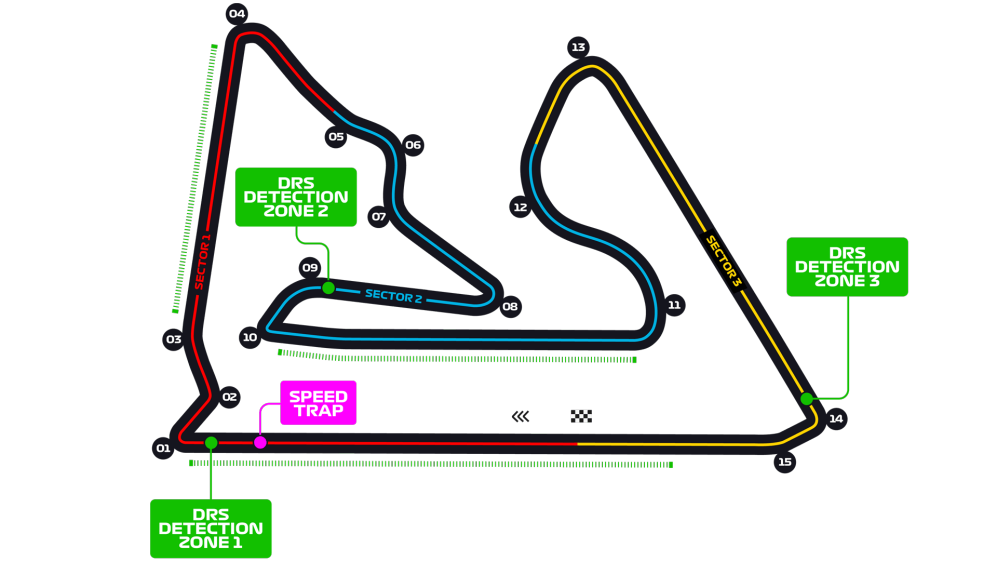
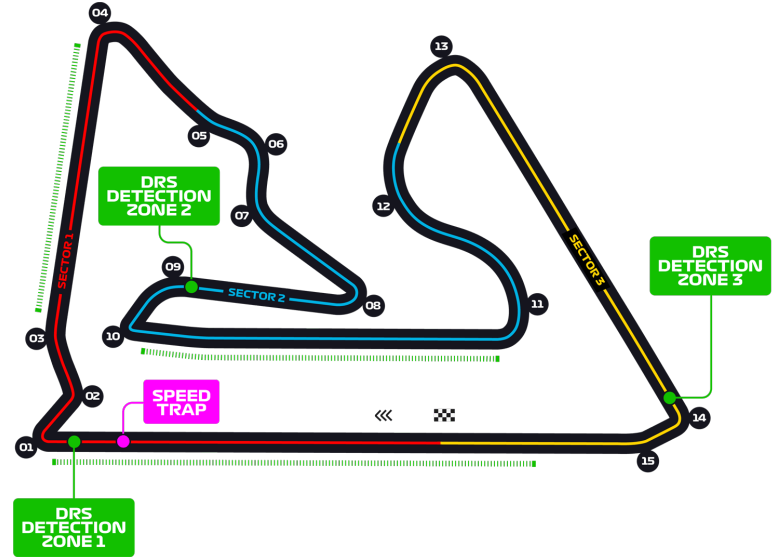
feat: Add track modal

Changed region(s): [[0.0, 0.0, 1.0, 1.0]]

diff --git a/index.js b/index.js
@@ -1,10 +1,8 @@
-// import * as upcomingRacesData from './upcomingRaces/upcomingRaces.json';
-
 const  loadJSON = async () => {   
     return new Promise((res, reject) => {
         var xobj = new XMLHttpRequest();
             xobj.overrideMimeType("application/json");
-        xobj.open('GET', './upcomingRaces/upcomingRaces.json', true); // Replace 'my_data' with the path to your file
+        xobj.open('GET', './upcomingRaces/upcomingRaces.json', true);
         xobj.onreadystatechange = function () {
               if (xobj.readyState == 4 && xobj.status == "200") {
                 // Required use of an anonymous callback as .open will NOT return a value but simply returns undefined in asynchronous mode
@@ -13,6 +11,14 @@ const  loadJSON = async () => {
         };
         xobj.send(null);
     })
+}
+
+const showModal = (modal) => {
+    modal.style.display = "block";
+}
+
+const hideModal = (modal) => {
+    modal.style.display = "none";
 }
 
 const addOnClickUpcomingRace  = (data, race) => {
@@ -25,12 +31,18 @@ const addOnClickUpcomingRace  = (data, race) => {
             return;
         }
         modal.querySelector('.modal-track-layout').setAttribute('src', data[race].trackSrc);
-        modal.style.display = "block";
-        console.log(data.bahrain);
+        modal.querySelector('.modal-title').innerHTML = `${race} track layout`;
+        showModal(modal);
     }
 
     modalCloseButton.onclick = () => {
-        modal.style.display = "none";
+        hideModal(modal);
+    }
+    modal.onclick = (e) => {
+        if (e.target === modal)
+        {
+            hideModal(modal);
+        }
     }
 }
 
@@ -42,5 +54,3 @@ const init = async () => {
 }
 
 init();
-
-

diff --git a/sass/modal.scss b/sass/modal.scss
@@ -1,25 +1,57 @@
+@import './helpers.scss';
+
 .modal {
     display: none;
     position: fixed;
-    // padding: 50px;
-    // padding-top: 50px;
     left: 0; 
     top: 0;
     width: 100%;
     height: 100%; 
-    background-color: rgb(0, 0, 0);
-    background-color: rgba(0, 0, 0, 0.5);
+    background-color: #000000a1;
+}
+
+.modal-container {
+    margin-top: 10vh;
+    margin-bottom: 10vh;
+    height: 80vh;
+    overflow: hidden;
+    text-align: center;
+
+    background-color: $backgroundColor;
+    border: 8px solid $formulaOneRed;
+    border-radius: 5px;
+
+    animation-name: animatetop;
+    animation-duration: 0.4s
+}
+
+@keyframes animatetop {
+    from {top:-300px; opacity:0}
+    to {top:0; opacity:1}
 }
 
 .modal-close-btn {
     float: right; 
-    color: lightgray; 
-    font-size: 24px;  
+    color: black; 
+    font-size: 44px;  
     font-weight: bold;
+
+    padding-right: spacing(2);
 
     cursor: pointer;
 }
 
 .modal-content {
+    display: flex;
+    flex-direction: column;
+}
+
+.modal-title {
+    text-transform: capitalize;
+}
+
+.modal-track-layout {
+    max-height: 80%;
+    max-width: 100%;
     
 }

diff --git a/index.html b/index.html
@@ -3,6 +3,7 @@
 <head>
     <meta charset="UTF-8">
     <meta name="viewport" content="width=device-width, initial-scale=1.0">
+    <!-- <link rel="stylesheet" href="https://fonts.googleapis.com/css?family=Sofia"> -->
     <link rel="stylesheet" href="./css/index.css">
     <link rel="stylesheet" href="./css/cssStrip.css">
     <link rel="stylesheet" href="./css/hero.css">
@@ -37,10 +38,14 @@
             </div>
         </section>
         <section class="modal">
-            <div class="modal-content content">
+            <div class="modal-container content">
                 <span class="modal-close-btn">&times;</span>
-                <!-- Maybe insert here through JS? -->
-                <img class="modal-track-layout" />
+                <!-- Insert img/content through js -->
+                <div class="modal-content">
+                    <h2 class="modal-title"></h2>
+                    <img class="modal-track-layout" />
+
+                </div>
             </div>
         </section>
     </main>

diff --git a/css/modal.css b/css/modal.css
@@ -5,16 +5,53 @@
   top: 0;
   width: 100%;
   height: 100%;
-  background-color: black;
-  background-color: rgba(0, 0, 0, 0.5);
+  background-color: #000000a1;
 }
 
+.modal-container {
+  margin-top: 10vh;
+  margin-bottom: 10vh;
+  height: 80vh;
+  overflow: hidden;
+  text-align: center;
+  background-color: #f5e4e4a6;
+  border: 8px solid #e20403;
+  border-radius: 5px;
+  animation-name: animatetop;
+  animation-duration: 0.4s;
+}
+
+@keyframes animatetop {
+  from {
+    top: -300px;
+    opacity: 0;
+  }
+  to {
+    top: 0;
+    opacity: 1;
+  }
+}
 .modal-close-btn {
   float: right;
-  color: lightgray;
-  font-size: 24px;
+  color: black;
+  font-size: 44px;
   font-weight: bold;
+  padding-right: 16px;
   cursor: pointer;
+}
+
+.modal-content {
+  display: flex;
+  flex-direction: column;
+}
+
+.modal-title {
+  text-transform: capitalize;
+}
+
+.modal-track-layout {
+  max-height: 80%;
+  max-width: 100%;
 }
 
 /*# sourceMappingURL=modal.css.map */

diff --git a/sass/index.scss b/sass/index.scss
@@ -1,4 +1,5 @@
 @import './helpers.scss';
+@import url('https://fonts.googleapis.com/css2?family=Open+Sans&display=swap');
 
 .content {
     margin: 0px spacing(2);
@@ -20,6 +21,7 @@
 }
 
 body {
+    font-family: 'Open Sans';
     background: url(../images/hero.jpg);
     background-size: cover;
     background-repeat: no-repeat;

diff --git a/css/index.css b/css/index.css
@@ -1,3 +1,4 @@
+@import url("https://fonts.googleapis.com/css2?family=Open+Sans&display=swap");
 .content {
   margin: 0px 16px;
 }
@@ -19,6 +20,7 @@
 }
 
 body {
+  font-family: "Open Sans";
   background: url(../images/hero.jpg);
   background-size: cover;
   background-repeat: no-repeat;

diff --git a/sass/helpers.scss b/sass/helpers.scss
@@ -6,3 +6,4 @@ $tabletBreakpoint: '600px';
 $desktopBreakpoint: '1025px';
 
 $backgroundColor: #f5e4e4a6;
+$formulaOneRed: #e20403;
